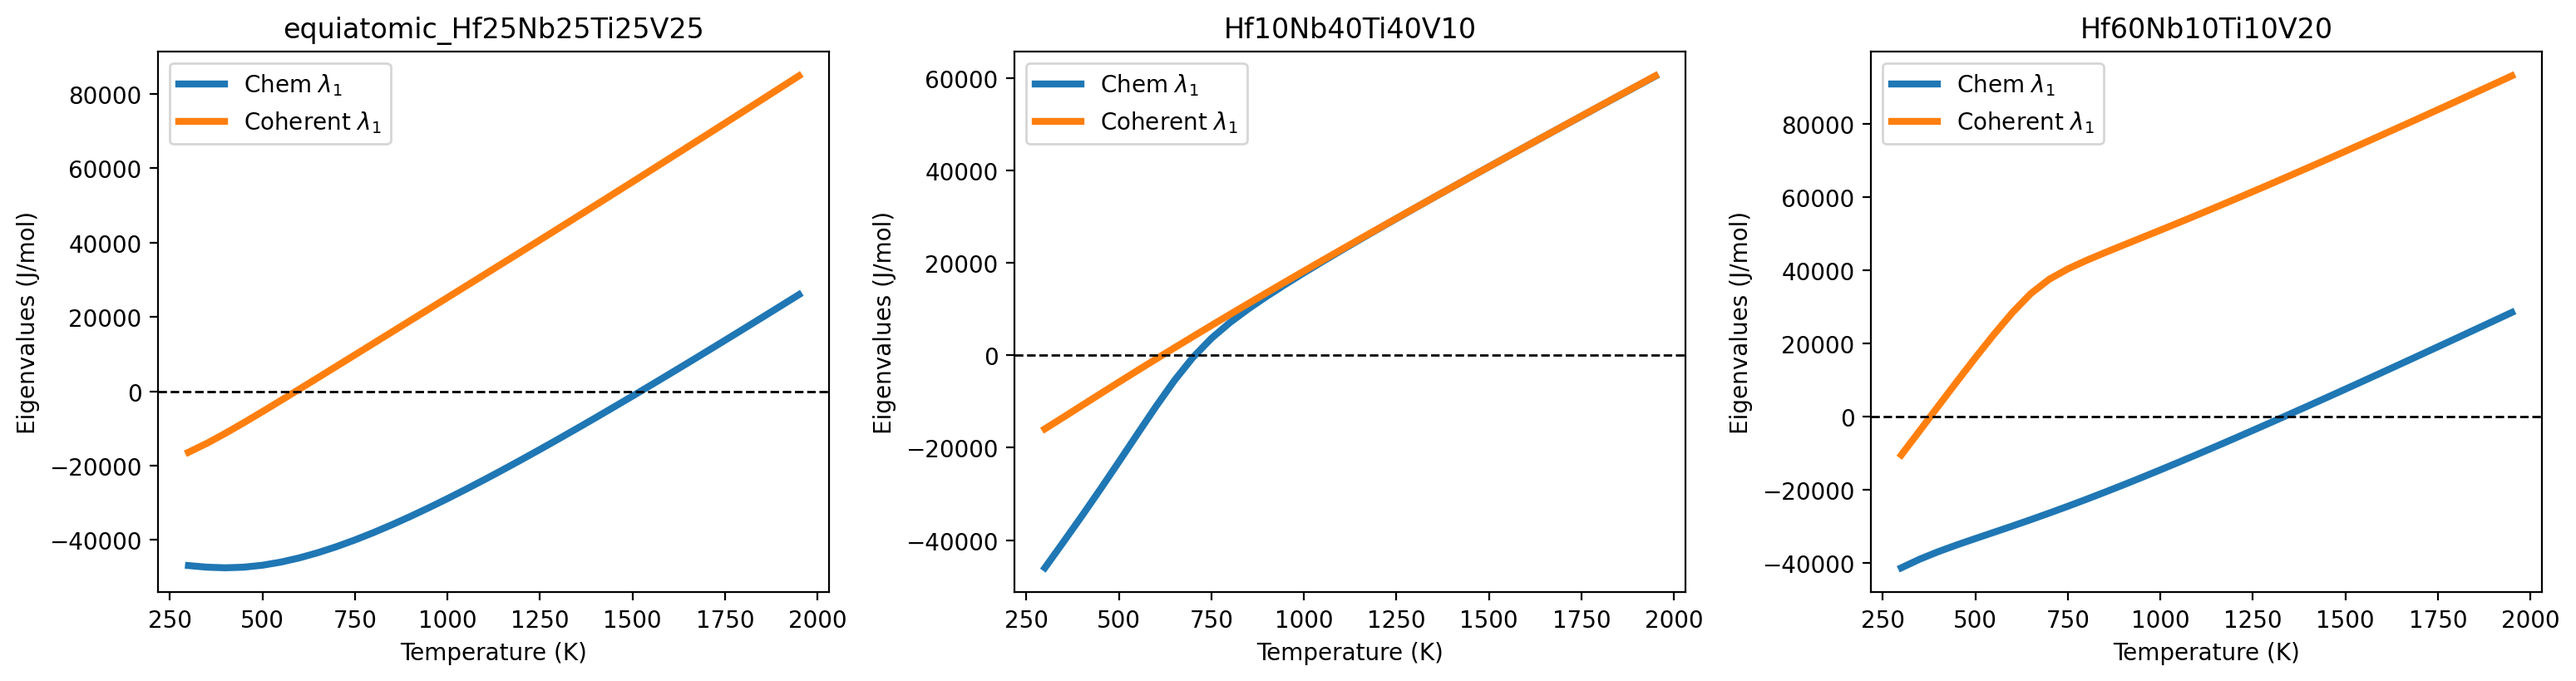
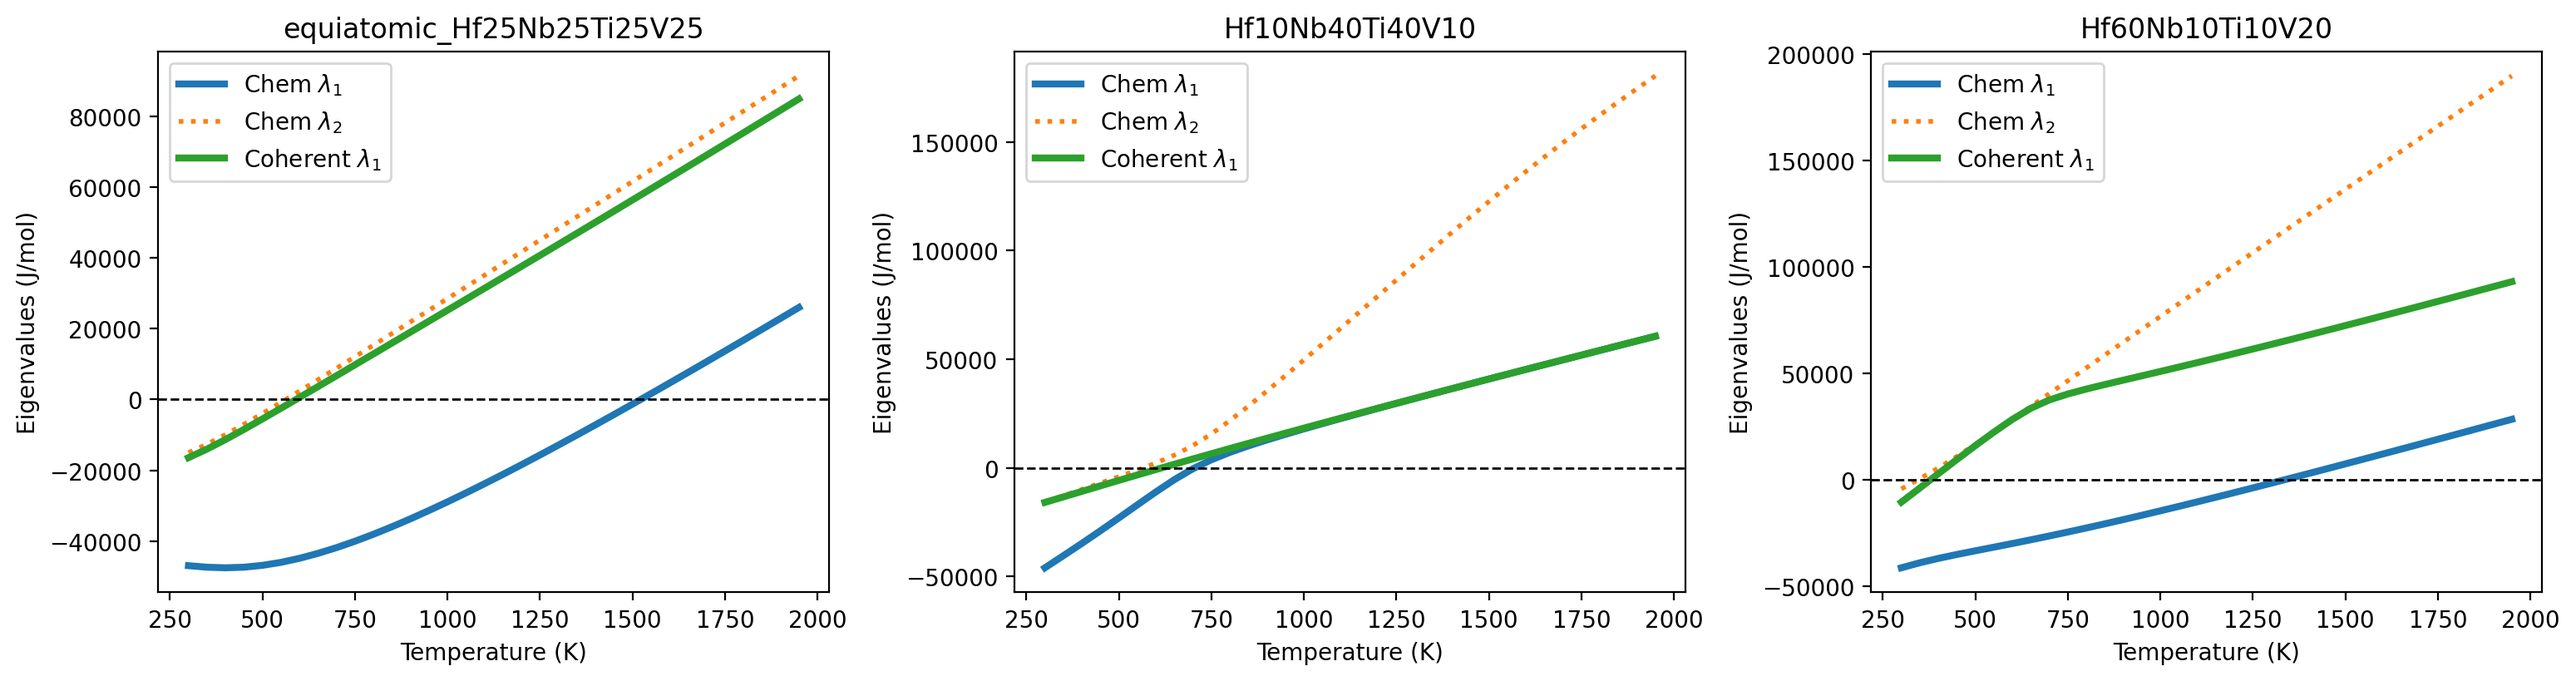
Plot chemical lambda_2 in the coherent-Hessian figure, matching the caption
Figure 4's caption describes three lines per panel (chemical lambda_1,
chemical lambda_2, coherent lambda_1), attributing panel (b)'s non-linear
lambda_1 curve to a large slope difference between the two chemical
eigenvalues. The original notebook never actually plots lambda_2, even
though it's already present in the same computed eigenvalue array -- only
lambda_1 ever reaches a plt.plot() call. The data was already being saved
per-eigenvalue in the CSV output; this just plots the column that was
already there.

diff --git a/workflows/01e_coherent_hessian/run.py b/workflows/01e_coherent_hessian/run.py
@@ -177,6 +177,8 @@ def run(cfg: dict) -> Path:
         }
 
         ax.plot(T_values, chem_eigs[:, 0], linewidth=3, label=r"Chem $\lambda_1$")
+        ax.plot(T_values, chem_eigs[:, 1], linewidth=2, linestyle=":",
+                label=r"Chem $\lambda_2$")
         ax.plot(T_values, coh_eigs[:, 0], linewidth=3, label=r"Coherent $\lambda_1$")
         ax.axhline(0.0, color="black", linestyle="--", linewidth=1)
         ax.set_xlabel("Temperature (K)")

diff --git a/docs/tutorial_coherent_hessian_quaternary.md b/docs/tutorial_coherent_hessian_quaternary.md
@@ -208,6 +208,16 @@ python workflows/01e_coherent_hessian/run.py \
 
 ![All three Figure 4 panels, regenerated from the production TDB and elastic CSV](images/tutorial_coherent_hessian_quaternary/01_fig4_reproduction.png)
 
+Figure 4's own caption describes three lines per panel — chemical λ₁,
+chemical **λ₂**, and coherent λ₁ — and specifically attributes panel (b)'s
+non-linear λ₁ curve to "a large difference in the slopes of the directions
+of principal curvature." The original notebook's plotting cells never
+actually plot λ₂, even though it's sitting in the same computed eigenvalue
+array right next to λ₁ — this workflow adds it (dotted line above), which
+is what makes that slope difference visible in panel (b): chemical λ₂ rises
+far more steeply than λ₁ there, crossing zero around 575–600 K versus λ₁'s
+~700 K, exactly the effect the caption describes.
+
 Three files land in `results/HfNbTiV_BCC_PhaseForge_v2/NbHfTiV/coherent_hessian_fig4_reproduction/`
 per composition and overall:
 
